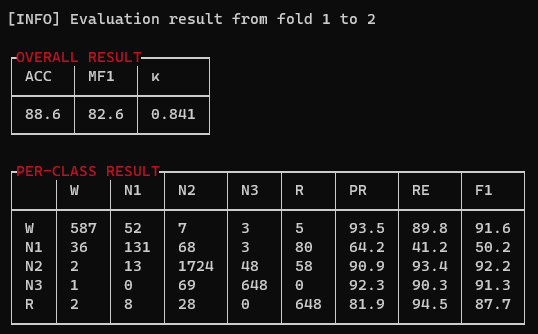
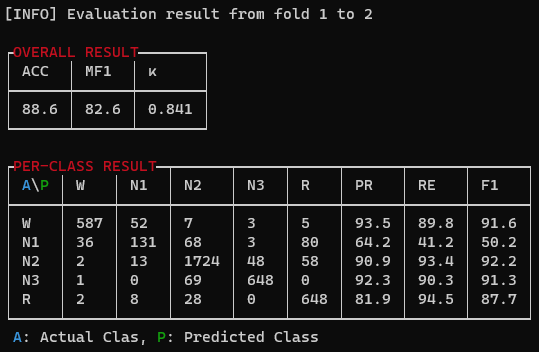
Update README.md and result summarization

Changed region(s): [[0.0, 0.4491, 1.0, 0.988], [0.0, 0.1198, 0.3866, 0.4192], [0.0, 0.0, 0.7138, 0.0898]]

diff --git a/utils.py b/utils.py
@@ -205,7 +205,7 @@ def summarize_result(config, fold, y_true, y_pred):
     ]
     
     perclass_data = [
-        ['', 'W', 'N1', 'N2', 'N3', 'R', 'PR', 'RE', 'F1'],
+        [colored('A', 'cyan') + '\\' + colored('P', 'green'), 'W', 'N1', 'N2', 'N3', 'R', 'PR', 'RE', 'F1'],
         ['W', cm[0][0], cm[0][1], cm[0][2], cm[0][3], cm[0][4], wpr, wre, wf1],
         ['N1', cm[1][0], cm[1][1], cm[1][2], cm[1][3], cm[1][4], n1pr, n1re, n1f1],
         ['N2', cm[2][0], cm[2][1], cm[2][2], cm[2][3], cm[2][4], n2pr, n2re, n2f1],
@@ -218,7 +218,9 @@ def summarize_result(config, fold, y_true, y_pred):
     
     print('[INFO] Evaluation result from fold 1 to {}\n'.format(fold))
     print(overall_dt.table + '\n')
-    print(perclass_dt.table + '\n\n')
+    print(perclass_dt.table)
+    print(colored(' A', 'cyan') + ': Actual Clas, ' + colored('P', 'green') + ': Predicted Class' + '\n\n')
+    
     
     with open(os.path.join('results', config['config_name'] + '.txt'), 'w') as f:
         f.write(
